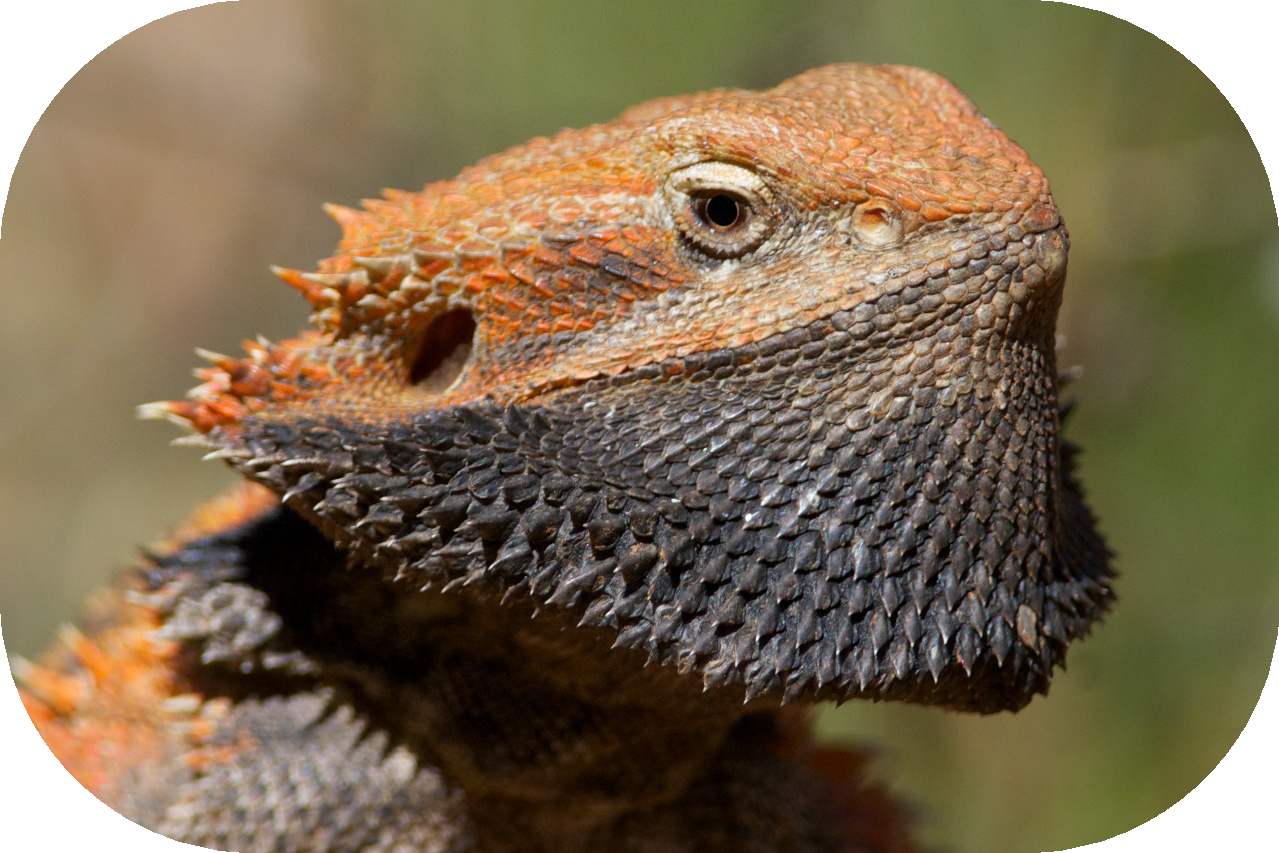
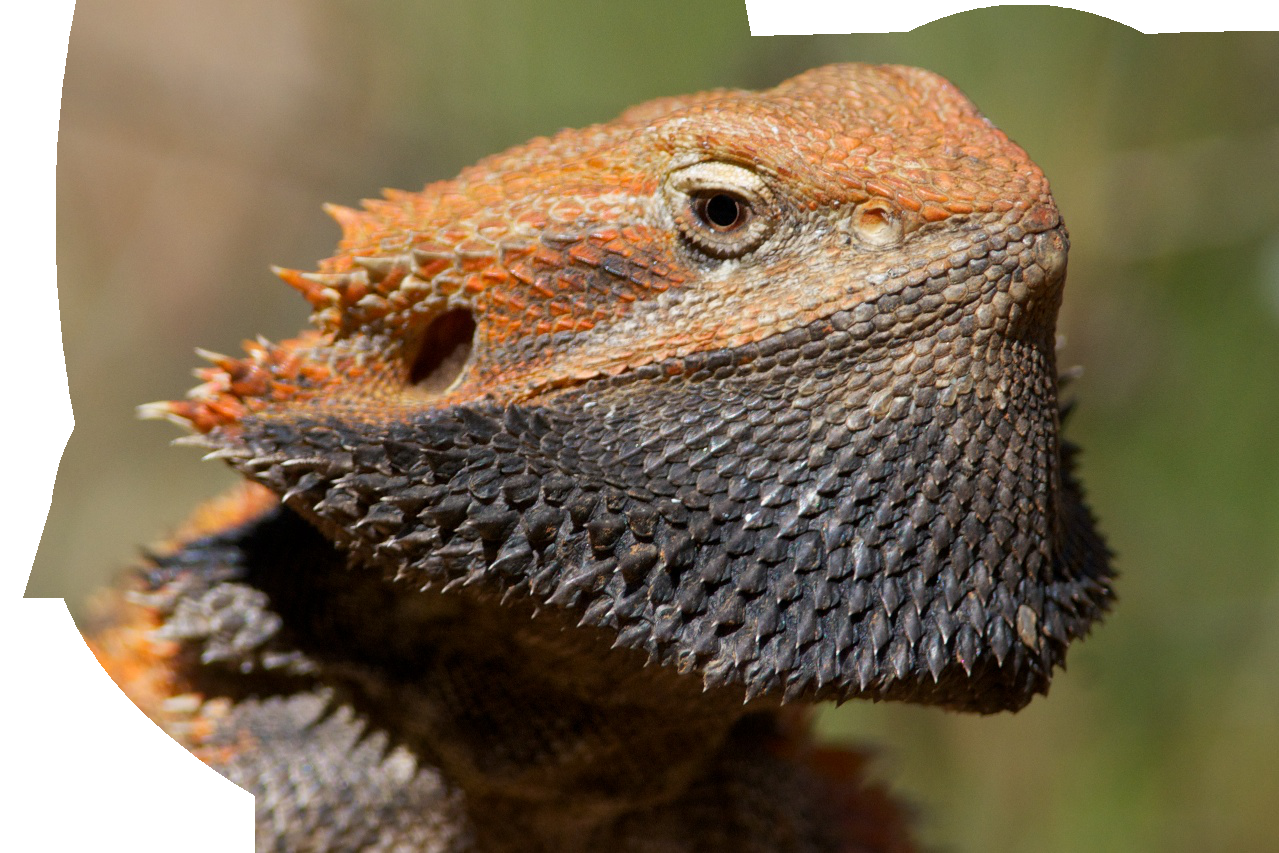
pics

diff --git a/mask.py b/mask.py
@@ -20,29 +20,29 @@ def round_corners(original_image, percent_of_side):
     ###
     
     #start with transparent mask
-    rounded_mask = PIL.Image.new('RGBA', (width, height), (127,0,127,0))
+    rounded_mask = PIL.Image.new('RGBA', (width, height), (127,5,127,0))
     drawing_layer = PIL.ImageDraw.Draw(rounded_mask)
     
     # Overwrite the RGBA values with A=255.
     # The 127 for RGB values was used merely for visualizing the mask
     
     # Draw two rectangles to fill interior with opaqueness
-    drawing_layer.polygon([(radius,0),(width-radius,0),
+    drawing_layer.polygon([(radius,49),(width-radius,29),
                             (width-radius,height),(radius,height)],
-                            fill=(127,0,127,255))
-    drawing_layer.polygon([(0,radius),(width,radius),
-                            (width,height-radius),(0,height-radius)],
-                            fill=(127,0,127,255))
+                            fill=(127,235,127,255))
+    drawing_layer.polygon([(126,radius),(width,radius),
+                            (width,height-radius),(23,height-radius)],
+                            fill=(127,235,127,255))
 
     #Draw four filled circles of opaqueness
-    drawing_layer.ellipse((0,0, 2*radius, 2*radius), 
-                            fill=(0,127,127,255)) #top left
-    drawing_layer.ellipse((width-2*radius, 0, width,2*radius), 
-                            fill=(0,127,127,255)) #top right
-    drawing_layer.ellipse((0,height-2*radius,  2*radius,height), 
-                            fill=(0,127,127,255)) #bottom left
+    drawing_layer.ellipse((50,31, 10*radius, 4*radius), 
+                            fill=(235,127,127,255)) #top left
+    drawing_layer.ellipse((width-2*radius, 5, width,2*radius), 
+                            fill=(235,127,127,255)) #top right
+    drawing_layer.ellipse((56,height-5*radius,  3*radius,height), 
+                            fill=(235,127,127,255)) #bottom left
     drawing_layer.ellipse((width-2*radius, height-2*radius, width, height), 
-                            fill=(0,127,127,255)) #bottom right
+                            fill=(235,127,127,255)) #bottom right
                          
     # Uncomment the following line to show the mask
     # plt.imshow(rounded_mask)
